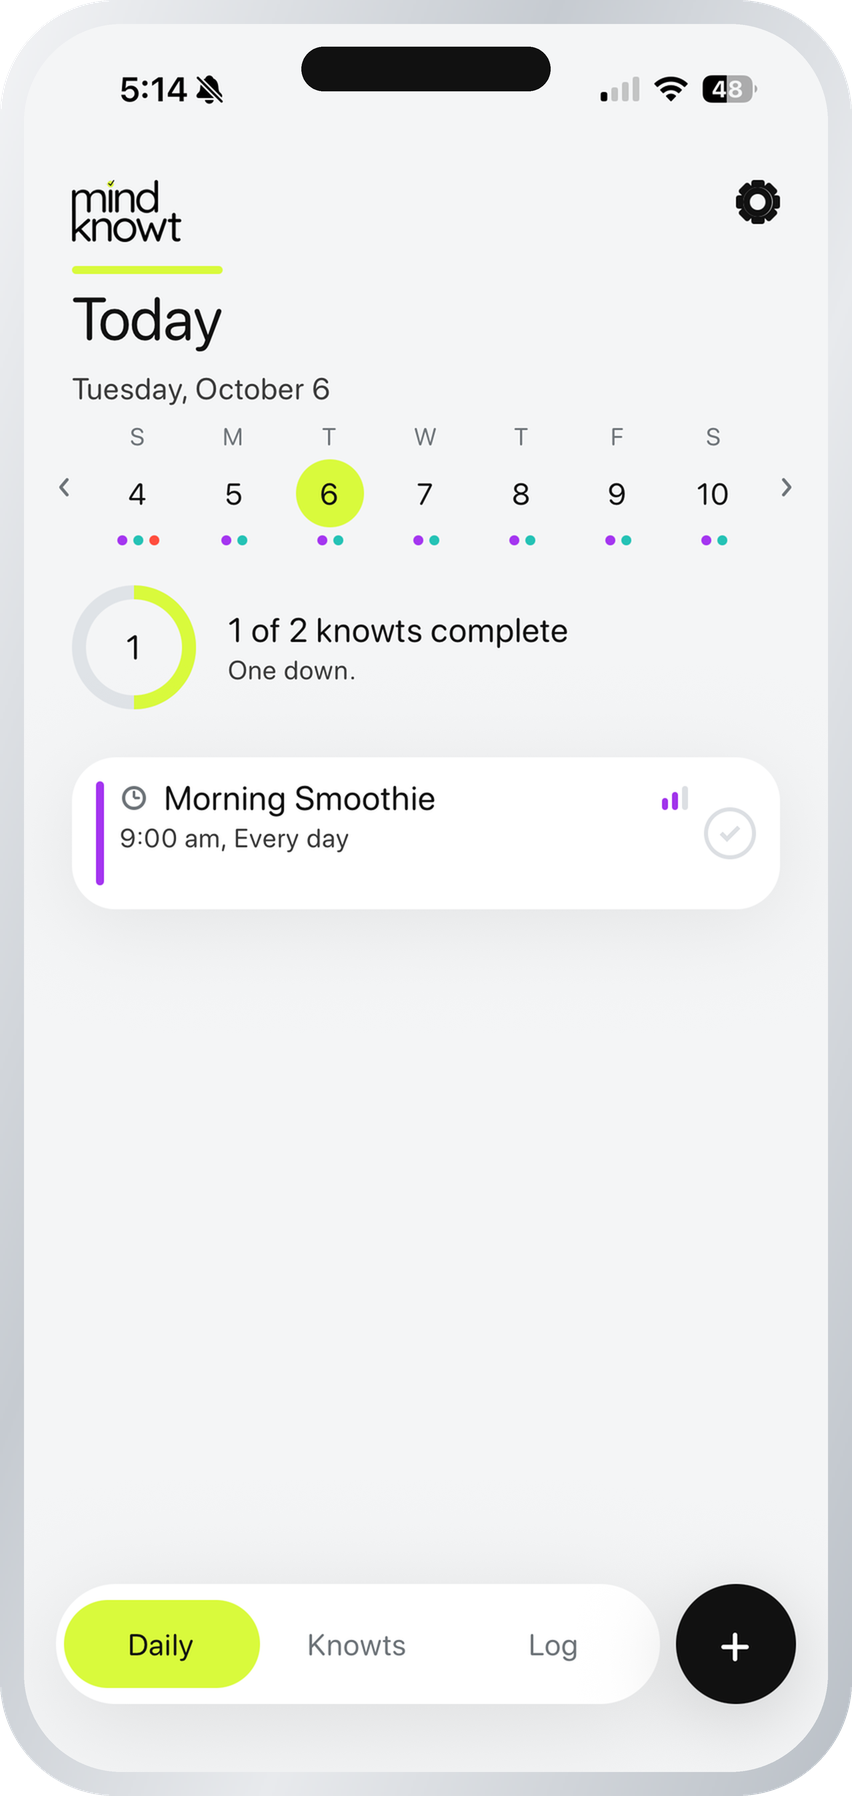
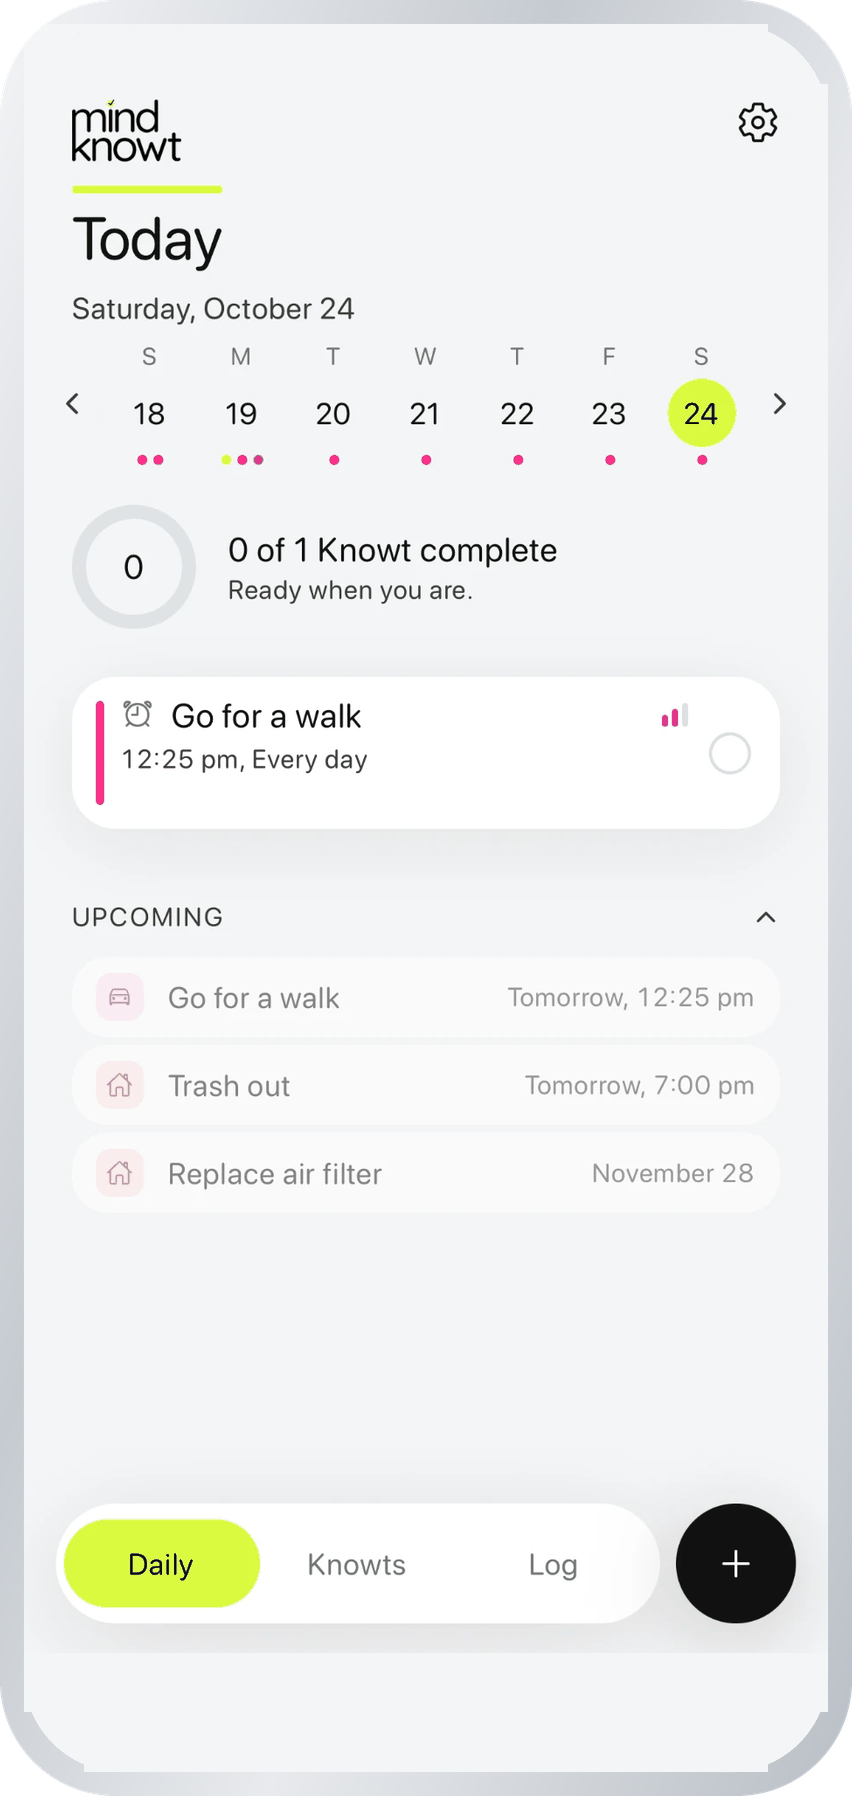
Parts 2 and 4: the real screenshots, and the Tap badge back to size
Mirrors mindknowt-app site/polish-hero-steps dc4ace6 and 4597f02.

PART 2. Daily, Knowts and Log replace the old captures in all five places.
Crop, the same on all three: the sources are 920 x 2000, the status bar's ink
ends at y91 and app content resumes at y178, so the cut is at y92; the bottom
cut is y1956, below the last ink on the busiest of the three. There is no home
indicator drawn, so that band was empty background.

Scaled by width, 804/920 = 0.873913, to 804 x 1629, anchored to the top, with
the remaining 119px filled with the app's own background. Not scaled to cover:
the source is 2.1739 to 1 against a 2.1741 window, so any vertical crop makes
it too wide, and covering would take 31px off each side while the rightmost
ink sits 30px from the edge. It would have clipped the plus button.

The two composites paste the screen into the frame at (24,24) through a
rounded corner mask recovered from the old pair, restricted to four 60x60
corner boxes. Reading that difference across the whole screen ghosted the old
screenshot through the new one: 16807 of the 22641 differing pixels are
scattered recompression noise rather than corners.

Quantized to 256 colors, and the screen is quantized BEFORE it goes into the
frame. Quantizing the composite let the bezel gradient eat the palette and the
accent bar came out gray, (163,109,135) against a source of (255,43,138).
Files are 210, 192, 236, 260 and 238 KB, against 265 and 305 KB for the two
composites before.
[…]

diff --git a/mindknowt/site/index.html b/mindknowt/site/index.html
@@ -109,7 +109,7 @@
           <img
             class="phone phone-hero"
             src="/assets/phone-hero.png"
-            alt="An iPhone showing the Daily screen in the MindKnowt app: the date, a week strip, one of two Knowts complete, and a Morning Smoothie Knowt set for 9:00 am every day."
+            alt="An iPhone showing the Daily screen in the MindKnowt app: Saturday October 24, a week strip, none of one Knowt complete, a Go for a walk Knowt set for 12:25 pm every day, and an Upcoming list."
             width="852"
             height="1796" />
           <img class="tag-disc tag-hero" src="/assets/knowt-tag.png" alt="A Knowt Tag, a small round tag your iPhone reads with a tap." width="2000" height="2000" />
@@ -162,7 +162,7 @@
           <article class="system-item">
             <div class="device">
               <div class="device-screen">
-                <img src="/assets/screens/daily.png" alt="The Daily screen, showing what is due today and how much of it is done." width="804" height="1748" loading="lazy" />
+                <img src="/assets/screens/daily.png" alt="The Daily screen, showing what is due today, how much of it is done, and what is coming up next." width="804" height="1748" loading="lazy" />
               </div>
             </div>
             <div class="system-copy">
@@ -175,7 +175,7 @@
           <article class="system-item">
             <div class="device">
               <div class="device-screen">
-                <img src="/assets/screens/knowts.png" alt="The Knowts screen, showing Knowts grouped under Wellness and Routine headings." width="804" height="1748" loading="lazy" />
+                <img src="/assets/screens/knowts.png" alt="The Knowts screen, showing Knowts grouped under Pinned, Daily, Care and Routine headings." width="804" height="1748" loading="lazy" />
               </div>
             </div>
             <div class="system-copy">
@@ -188,7 +188,7 @@
           <article class="system-item">
             <div class="device">
               <div class="device-screen">
-                <img src="/assets/screens/log.png" alt="The Log screen, showing a month of Knowts complete, a completion rate, and a completion trend chart." width="804" height="1748" loading="lazy" />
+                <img src="/assets/screens/log.png" alt="The Log screen, showing a month of Knowts complete, a completion rate, a completion trend chart, peak time, and completion by category." width="804" height="1748" loading="lazy" />
               </div>
             </div>
             <div class="system-copy">
@@ -253,7 +253,7 @@
             <img
               class="phone phone-kit"
               src="/assets/phone-kit.png"
-              alt="An iPhone showing the Knowts screen, with Knowts grouped under Wellness and Routine headings."
+              alt="An iPhone showing the Knowts screen, with Knowts grouped under Pinned, Daily, Care and Routine headings."
               width="852"
               height="1796"
               loading="lazy" />

diff --git a/mindknowt/site/css/style.css b/mindknowt/site/css/style.css
@@ -680,9 +680,11 @@ img {
  * edge and a little over a millimeter below its bottom, so it rests on the
  * corner with most of itself off the phone. That position is not free: the
  * tab bar row, the Daily / Knowts / Log pill and the plus button, occupies
- * x 0.095 to 0.931 and y 0.884 to 0.947 of the frame, measured off
- * phone-hero.png, and the disc clears its nearest corner by about 2.6 percent
- * of the phone's width. `layout.test.mjs` asserts that it still does.
+ * x 0.093 to 0.931 and y 0.837 to 0.903 of the frame, measured off
+ * phone-hero.png. It sat lower before the screenshots were replaced; the new
+ * captures carry more of the app's own background under the bar, which moves
+ * it up and leaves the tag more room, not less. `layout.test.mjs` asserts the
+ * clearance rather than trusting it.
  */
 .tag-hero {
   position: absolute;
@@ -798,19 +800,20 @@ img {
 }
 
 /*
- * The badge on Tap, which does have a phone to measure against.
+ * The badge on Tap is NOT at life size, deliberately.
  *
- * At life size this is a ninth of the tile, so it only reads as a tag if it
- * is resting on the phone it is scaled against. The drawn phone occupies
- * x 232 to 510 and y 92 to 646 of the 800 square, so its bottom right corner
- * is at 63.8 and 80.8 percent, and the disc is centered just past it.
+ * It was, briefly. Scaled against the phone drawn inside step-tap.png it came
+ * out a ninth of the tile, about 12px, which is a speck. This is an icon in a
+ * row of three tiles saying what the step is, not a size comparison, so it
+ * keeps the size it reads at. The hero tag and the kit cluster are the places
+ * where a tag sits beside a photographed phone and the scale means something.
  */
 .tag-step-phone {
-  width: calc(var(--tag-mm) * var(--mm) / var(--disc-in-box));
-  left: 59.3%;
-  top: 76.8%;
-  right: auto;
-  bottom: auto;
+  width: 54%;
+  right: 1%;
+  bottom: 1%;
+  left: auto;
+  top: auto;
 }
 
 /* ---------- A simple system, a better you ---------- */
